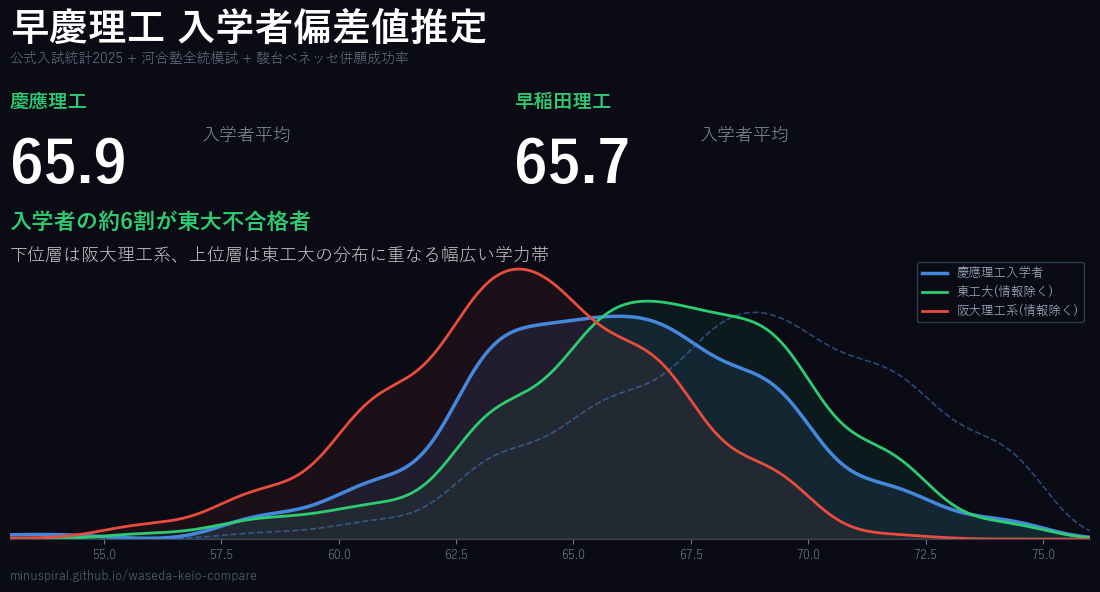
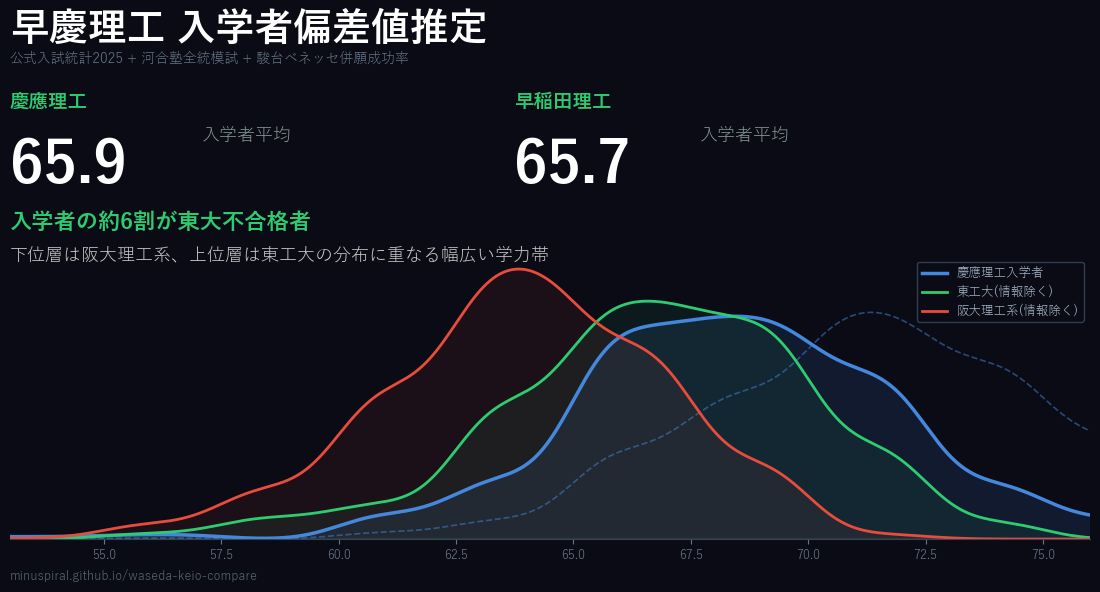
OGP: 慶應曲線をMR軸で描画しReactヒストグラムと軸を統一

diff --git a/gen_ogp.py b/gen_ogp.py
@@ -79,8 +79,8 @@ def make_curve(data, mids, sigma_units=0.7):
     mask = (x_fine >= 52) & (x_fine <= 78)
     return x_fine[mask], y_smooth[mask]
 
-x_ke, y_ke = make_curve(kEnr, KM)
-x_kp, y_kp = make_curve(kAll * KSC, KM)
+x_ke, y_ke = make_curve(kEnr, MR)
+x_kp, y_kp = make_curve(kAll * KSC, MR)
 x_ti, y_ti = make_curve(titec, MR)
 x_os, y_os = make_curve(osaka, MR)
 
